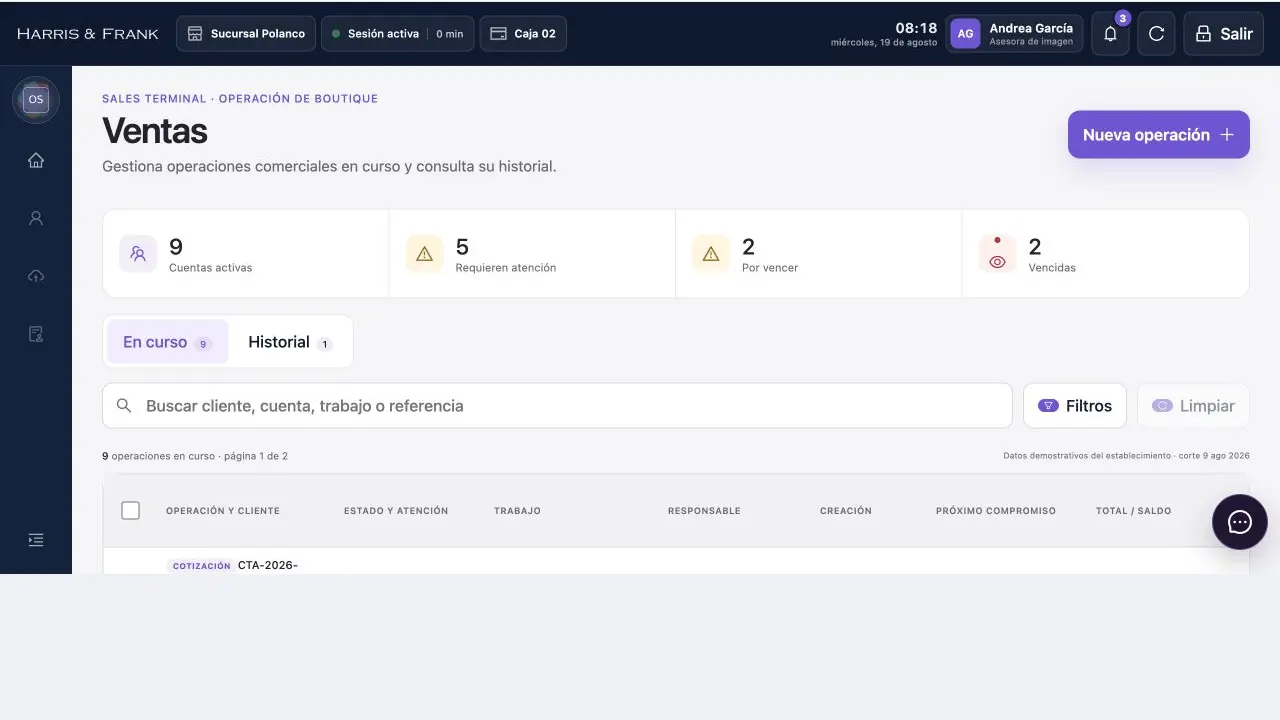
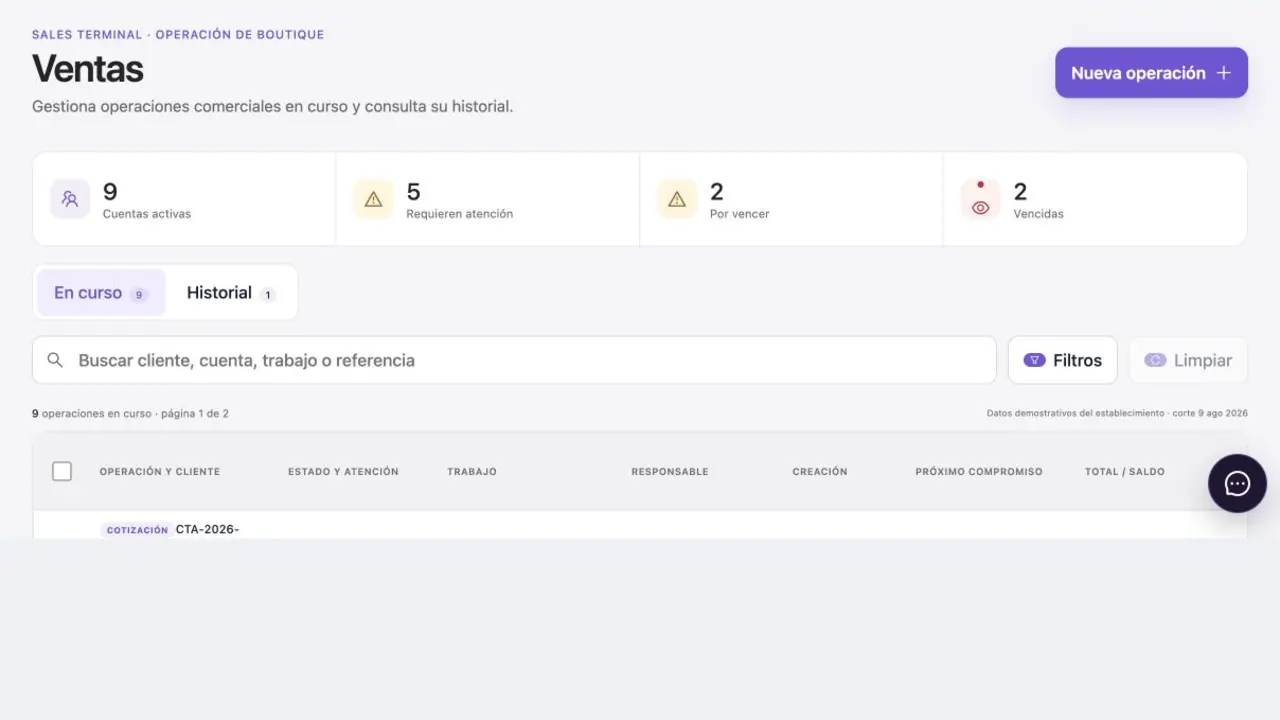
Pilot frameless showcase mode for Sales Terminal

diff --git a/app/demo/page.tsx b/app/demo/page.tsx
@@ -27,7 +27,8 @@ const experiences: Experience[] = [
     family: "Customer & Commerce",
     origin: "Demo propietaria",
     authority: "Demo congelada 9f6402e",
-    disposition: "Reutilización directa · snapshot para validar integración",
+    disposition:
+      "Piloto visual en modo Showcase, sin shell nativo · snapshot para validar presentación; la ruta propietaria real todavía no fue modificada",
     mode: "snapshot",
     image: "/demo/sales-terminal.webp",
   },
